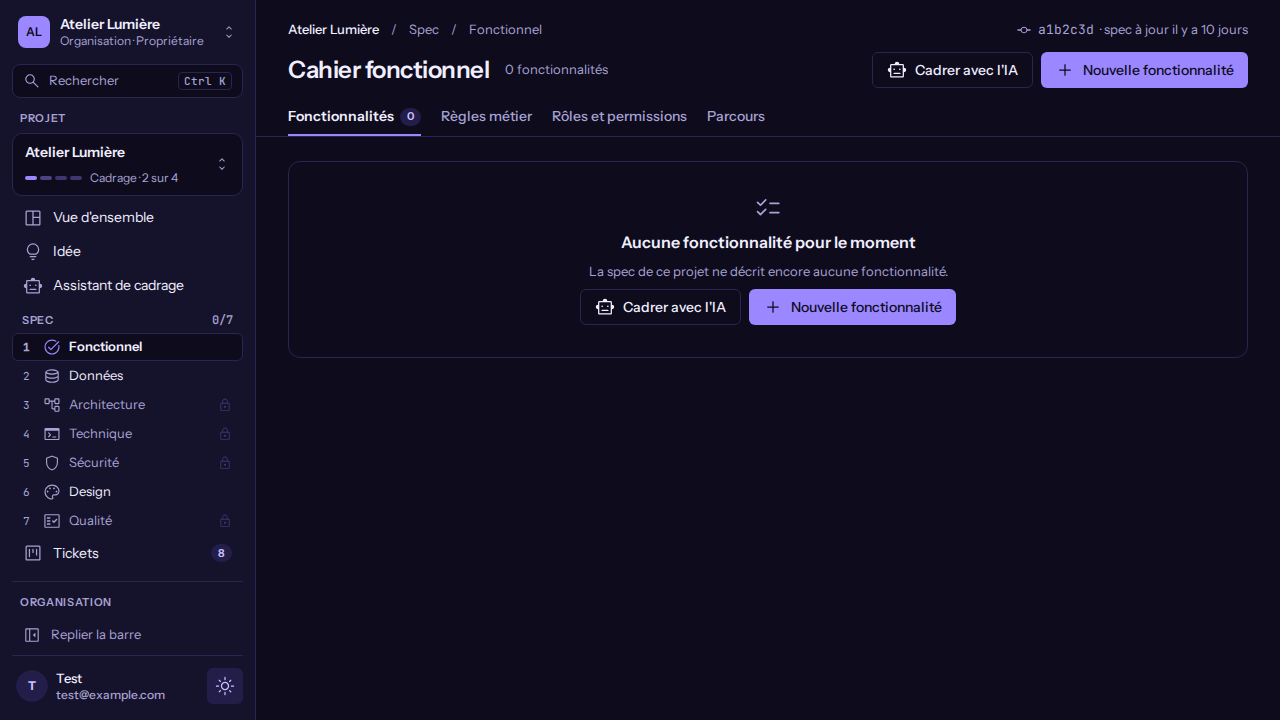
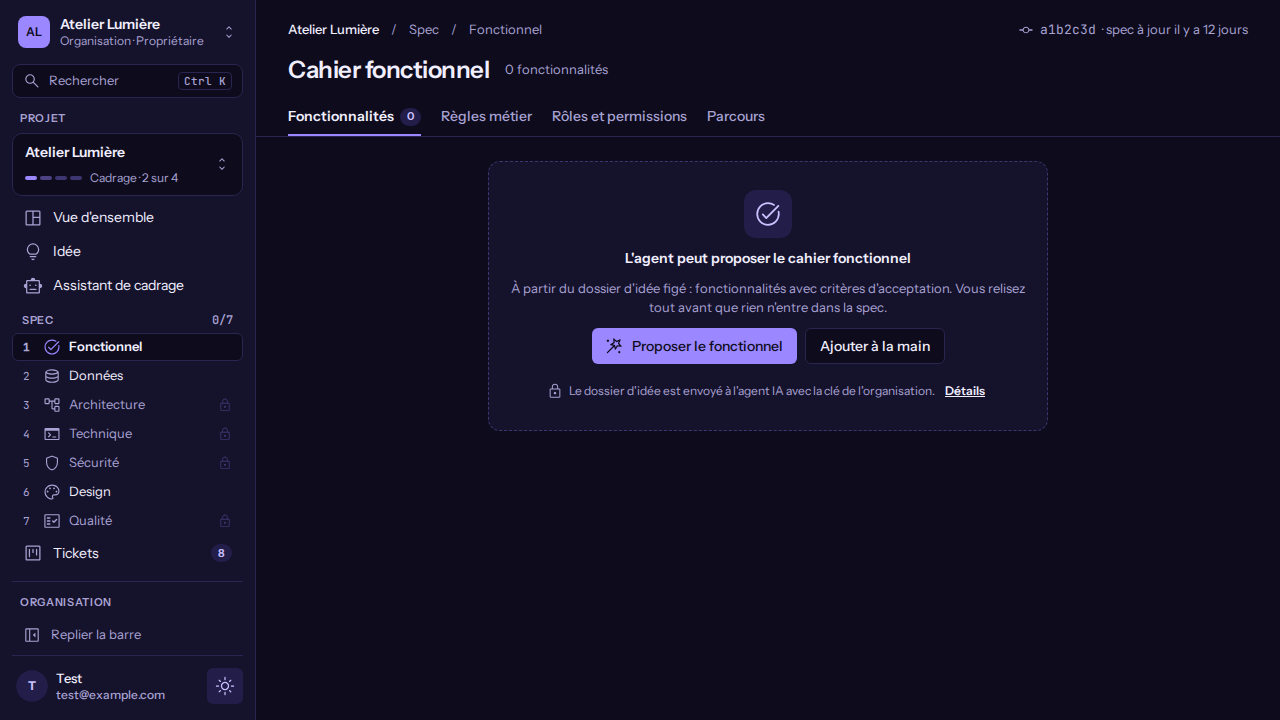
docs: captures, fiches d'écran, décisions B319 à B324 et passation (TK-99b)

Changed region(s): [[0.4062, 0.2444, 0.8125, 0.55], [0.6875, 0.0306, 1.0, 0.1222]]

diff --git a/docs/refonte/questions.md b/docs/refonte/questions.md
@@ -442,3 +442,9 @@ Décidée en autonomie le 2026-11-07 : un `Table framed` pose `tabIndex=0` sur s
 | B316 | Lectures prudentes du lot B de TK-99a (génération dans le worker) | TK-99a lot B, B314, fiche | Décidée en autonomie le 2026-11-11 : (a) un lancement `running` à la prise du job (reprise) est passé `failed` / `worker_lost` sans appel au modèle (la reprise ne rejoue pas une génération qui a pu publier) ; (b) un échec du moteur ou du fournisseur passe le lancement `failed` avec un code typé et ne relance pas le job (relancer = nouvelle demande de l'utilisateur, le verrou est libéré) ; seules les pannes de base remontent à pg-boss ; (c) une zone dont la sortie est inexploitable ou dont le prompt est refusé (collision de délimiteur) est ignorée et comptée une fois dans `discardedCount` ; une liste de zones inexploitable fait échouer le lancement (`output_invalid`) ; (d) chaque entrée du modèle est `{ kind, rationale, content }` : le contenu passe le schéma de son type, le motif (500 caractères) la politique de texte brut ; au plus 25 par zone et 500 par lancement, l'excédent est écarté et compté ; (e) types générés par mode : `complete` et `update` = `feature`, `criteria` = `criteria` (fonctionnalités sans critère seulement, une proposition chacune, titre `F-nnn · Titre`), `all` = les deux ; `rule`, `role`, `flow` jamais générés (B314 d) ; en mode `update`, seules les pages dont la version a changé depuis le `baseVersion` du dernier lancement terminé sont envoyées (toutes si aucun lancement précédent) ; (f) sources : version figée = `baseVersion` du lancement (sinon la dernière commitée), synthèse seulement si publiée (`source` renseignée), page `hypotheses-risques` lue comme source `idea.risks` et exclue des pages générales, cahier = tête `cadrage` puis branche par défaut, 300 fonctionnalités au plus ; chaque source est tronquée (6 000 caractères par page, 24 000 pour les pages, 8 000 la synthèse, 6 000 les risques, 12 000 le cahier) pour rester sous le budget de prompt de 60 000 ; (g) l'utilisateur est « parti » si `now - lastSeenAt` > 30 s ; sans lecture, la mesure part du début du traitement ; la notification est créée AVANT le passage à `done` (au mieux : un membre retiré ou un doublon n'échoue pas le lancement) ; (h) durée maximale de 14 minutes par lancement (`timeout`), sous l'expiration pg-boss de 900 s ; (i) le worker ne marque pas la dernière utilisation d'une clé et n'invalide pas sur un 401 (vie des clés = API), ses événements de moteur sont journalisés sans contenu ; (j) extraction : l'API garde ses noms (`PrismaAiRoutingStore`, `PrismaAiUsageMeter`, `PrismaAiCredentialSource`, `LlmCredentialResolver`) en enveloppes ou ré-exports des paquets `@koklo/llm` et `@koklo/db` ; `jsonSchemaOf` passe dans `@koklo/schema` (le worker n'a pas Zod) ; `PROPOSAL_BUDGETS` couvre aussi `proposal-revise` ; (k) ADR 0021. |
 | B317 | Documentation de TK-99a et risques résiduels de la revue | TK-99a, revue du tour 1, fiche §7 | Décidée en autonomie le 2026-11-11 : (a) la documentation exigée (architecture.md, passation.md, ecarts.md) est écrite avec le ticket, pas renvoyée à `/document` ; (b) le moteur réel du worker n'a pas de test de bout en bout (compilation + `ai-persistence`), consigné en passation ; (c) la course étroite de `proposal.decide` (lecture puis écriture sans verrou de ligne) est acceptée : au pire une décision écrite sur une proposition qui vient d'être appliquée, sans fuite ni écriture dans la spec ; (d) la proposition verrouillée par `appliedBatchId` après échec du lot reste à traiter avec TK-99b (B315 h). |
 | B318 | PR de dépendances ouvertes | Dependabot #115-#122, #162 | Décidée en autonomie le 2026-11-11 : Node 26 (#115-#117) refusé, la stack fixe Node 24 LTS (vision §16.1), un changement de version majeure passera par un ADR ; les bêtas oRPC montent ensemble (groupe Dependabot) ; #162 et oRPC beta.48 réunis dans une seule PR avec le correctif Biome. |
+| B319 | Lectures prudentes de TK-99b (interface des propositions) | TK-99b, B313, B314, passations 14 / 07 §1.4, maquettes 21, 10, 12 | Décidée en autonomie le 2026-11-11 : (a) l'icône `auto_awesome` des planches est `wand_stars` (DESIGN §4) ; (b) la note de confidentialité de la maquette 10 nomme un fournisseur : elle dit « l'agent IA avec la clé de l'organisation » (DESIGN §1.1 règle 6) ; (c) la maquette 10 montre le bouton en contour dans l'état Liste, la maquette 21 et la passation 14 le veulent `--primary` partout : on suit 21 (principe), et « Nouvelle fonctionnalité » passe en `outline` pour garder un seul bouton primaire ; (d) `FramingLink` quitte l'en-tête du Fonctionnel, la route `/framing` et son code restent (nettoyage = ticket ultérieur) ; (e) la relecture est la vue `?view=review` de l'onglet Fonctionnalités, ouverte automatiquement une fois quand un lancement a des propositions à relire au chargement ; (f) le serveur n'expose pas de flux : la relecture sonde `proposal.list` toutes les 2 s tant que le lancement est actif ; (g) à 30 propositions ou moins, pas de « Accepter les N restantes » (groupe unique `all`, refusé par `decideMany`) ; (h) au-delà de 200 acceptées : un commit par groupe, récapitulatif unique ; (i) bouton absent hors `canWriteSpec`, droits revérifiés par le serveur ; (j) aucune dépendance nouvelle : `VirtualList` (TK-94). B318 reste réservée. |
+| B320 | Proposition liée à un lot de spec échoué (B315 h, B317 d) côté écran | TK-99b, B315 h, `prisma-spec-batch.repository.ts` | Décidée en autonomie le 2026-11-11 : `appliedBatchId` est posé à la soumission et aucune procédure ne le libère ; sans toucher au serveur, l'écran affiche une proposition dont le lot est `failed` comme « Enregistrement échoué · à reprendre par l'équipe technique », ne la compte pas parmi les « à relire » et n'offre aucune action. La libération au retour du worker de spec reste un ticket serveur, consignée en passation. |
+| B321 | Lectures prudentes du lot A de TK-99b (`packages/ui`, galerie) | TK-99b, maquettes 21, 10, 12, DESIGN §5.13 | Décidée en autonomie le 2026-11-11 : (a) la galerie a déjà une section 14 (« Vue d'ensemble ») et une 15 (« Projets ») : la section des propositions est la 16, id `dev-ui-proposals`, sans renuméroter les autres ; (b) l'état `unavailable` du bouton ouvre au clic une bulle `Popover` (raison + lien « Ouvrir les réglages », focus clavier atteignable) au lieu d'une infobulle de survol, qu'un lien ne peut pas rendre accessible au clavier ; la raison est aussi reliée par `aria-describedby` ; (c) `IconTile` gagne la taille 34 (maquette 21 l.57), `RadioCard` les props `tags` et `density="compact"`, `ProgressBar` la variante `split` ; (d) une proposition rejetée garde un titre en `--muted-foreground` au lieu de l'opacité .6 de la maquette 10 (contraste axe) ; (e) élément de liste de 52 px de haut minimum (lignes `VirtualList` à 52) au lieu des 56 px de la maquette 10 ; (f) la relecture reçoit `groups` du parent (le serveur reste la source des comptes) et le détail en enfant (`ProposalDetail`) : le composant ne connaît pas le type de proposition ; les critères d'acceptation (`ProposalCriterion`) et lignes à icône (`ProposalDetailLines`) vivent dans `packages/ui` pour qu'aucun style de maquette ne soit recopié dans `apps/web`. |
+| B322 | Lectures prudentes du lot B de TK-99b (branchement `apps/web`) | TK-99b, B319, B320, B321, fiche §3 | Décidée en autonomie le 2026-11-11 : (a) « Afficher 20 de plus » relit le groupe avec une limite plus grande (8 puis 28, 48…) au lieu d'un curseur : un groupe compte 25 propositions au plus (B316 d) et la relecture reste cohérente quand des propositions décidées quittent le filtre « À relire » ; (b) le bouton « Enregistrer A dans la spec » compte les acceptées non appliquées (`appliedBatchId` nul) lues par `proposal.list` en pages de 100 (clé de requête liée au compte d'acceptées) ; (c) clé d'idempotence `proposal-<lancement>-<groupe sans accents>-<rang>-<empreinte des identifiants>` : stable pour le même lot rejoué, nouvelle dès que son contenu change ; (d) un lot refusé ou trop lent (60 s) arrête la suite : « N enregistrées, M à reprendre » ; (e) le lancement mène à la relecture (`?view=review`) où le bandeau d'attente et « Annuler l'attente » (quitte la vue, ne touche pas au lancement) s'affichent ; (f) un 409 `PROPOSAL_IN_PROGRESS` garde le bouton « en cours » jusqu'à ce que la lecture ait vu le lancement actif puis terminé ; (g) équipe qui écrit sur spec vide : carte « L'agent peut proposer le cahier fonctionnel » (bouton de l'agent + « Ajouter à la main »), client et business gardent l'ancienne carte ; (h) `FramingLink`, `framing-*` et `use-framing-*` restent (nettoyage ultérieur) ; `use-ai-call.ts`, `ai-error-notice.tsx` et les éditeurs `proposal-*` sont repris tels quels (aucun besoin de changement) ; (i) les tests du lot ont été écrits après le code (volume du lot) : le rouge est établi par les 12 tests existants de l'en-tête et de l'état vide qui contredisaient le nouveau comportement et ont été réécrits. |
+| B323 | Écarts de la revue de TK-99b (tour 1) avec les maquettes 21, 10 et 12 | TK-99b, revue CHANGES, B156, B319, B321, B322 | Décidée en autonomie le 2026-11-11 : (a) corrigés : tuile 34 à gauche du titre (rangée, plus d'emboîtement dans `DialogHeader`), titre 15/600 (`text-card-title`), carte radio choisie à 1 px (anneau retiré), marque à `mt-px`, compteur « N / 500 » retiré (la limite reste portée par `maxLength`), bandeau de génération en bande pleine largeur (`ProposalGenerationBanner`, nouveau dans `packages/ui`) avec `ProposalSkeleton`, relecture sans carte en retrait (bandes pleine largeur sous les onglets), en-tête de groupe sans chevauchement (le libellé passe à la ligne, le bouton « Accepter les N restantes » descend sous lui si la place manque), chevron `muted`, filtres « À relire · N » / « Toutes · N », note « Groupé par type puis par zone » (maquette 12 l.131, car les groupes sont type puis zone), note de confidentialité dans la carte vide avec « Détails » (prop `note` et `wideDescription` d'`EmptyState`, plus de style local) ; (b) le texte de « Détails » et l'exemple du champ de consigne ne figurent pas dans la maquette : lecture prudente, une phrase qui reprend ce que l'agent lit et « Rien n'est enregistré sans votre relecture » / « ex. « Se concentrer sur la réservation, laisser de côté la facturation. » » ; (c) voile .38 au lieu de .34, fond `--raised` au lieu de `--bg`, ombre absente en sombre : on garde les jetons de la bibliothèque (B156 couvre tous les dialogues ; changer le voile ou le fond d'un dialogue touche toute l'application), écart consigné ; (d) tailles de détail gardées sur le `Button` de la bibliothèque (icône 20 ou 16, Fermer 32, critère en `p-3`) : l'écart de 2 px ne justifie pas une variante, la cible de 32 reste au-dessus du minimum WCAG 2.2 (24) ; seuls l'espacement de « Lancer » (pl 10, gap 6), « Annuler » (px 12) et la position de Fermer (centré sur la rangée) sont alignés ; (e) test de performance instable sous charge (`proposals.spec.ts:145`) : réussi seul, deux axe sur la relecture en volume ont dépassé 30 s sous charge et réussi à la relance, à surveiller sans changer le seuil. |
+| B324 | Écarts restants de la revue visuelle de TK-99b (tour 2) | TK-99b, maquette 10 l.99, l.108, l.640 | Décidée en autonomie le 2026-11-11 : (a) état Prêt, spec vide : l'en-tête n'a plus aucune action et la carte de l'agent porte « Proposer le fonctionnel » (prop `idleLabel` d'`AgentProposeButton`) et « Ajouter à la main » ; un seul bouton primaire (B319 c). (b) Bandeau de génération : « à partir du dossier d'idée » sans le nombre de pages, que `ai.proposeOptions` ne renvoie pas ; l'ajouter serait un changement de contrat, à faire avec le lot qui exposera les pages lues. |

diff --git a/design/screens/S-features.md b/design/screens/S-features.md
@@ -1,7 +1,7 @@
 ---
 id: S-features
 titre: Fonctionnalités d'un projet (lecture seule)
-version: 1.8
+version: 2.0
 ---
 ## 1. Utilisateurs et objectif
 - **Vue équipe** (propriétaire, administrateur, développeur, designer) : relit les fonctionnalités de la spec d'un projet, leurs critères d'acceptation et leurs liens (tables, endpoints, écrans). Voit la version de la spec lue (court identifiant de commit) et le chemin du fichier.
@@ -193,6 +193,14 @@ Gabarit de S-projects §6 (barre latérale 248 px repliable, marge 32 px ; sous 
 - 48c, non bloquants 2 et 3 (marqueur de reprise absent après `UNAUTHORIZED` à l'étape 2 ; compte sélectionné disparu : « Projet créé. » sans dépôt ni reprise) : **résolus pour l'utilisateur** par 4.6, car un projet sans dépôt est toujours repris depuis sa page. Le code du panneau reste à corriger si on y touche (voir §11).
 - 48c, non bloquant 4 (texte d'erreur générique visible brièvement pendant la redirection `UNAUTHORIZED`) : à corriger dans le panneau réutilisé (ne rien afficher tant que la redirection est en cours).
 
+## 9a. Propositions de l'agent (TK-99b, maquettes 21, 10 et 12 ; passations 14, 06 §4.2-4.3, 07 §1.4)
+- **Bouton `AgentProposeButton`** : premier des actions de l'en-tête de l'équipe qui écrit (`canWriteSpec`), absent en vue client et business ; 5 états `idle`, `open`, `running` (« L'agent propose… »), `ready` (« Relire N propositions »), `unavailable` (raison en infobulle + lien vers les réglages). « Nouvelle fonctionnalité » passe en `outline` ; « Cadrer avec l'IA » quitte l'en-tête (la route `/framing` reste jusqu'au nettoyage).
+- **Modale `AgentProposePopover`** : choix et comptes lus de `ai.proposeOptions` (option à 0 masquée, première = Recommandé), consigne facultative (500 car.), « L'agent lit » = `reads`, pied « Rien n'est enregistré sans votre relecture. », Annuler · Lancer. Échap, clic dehors, focus piégé et rendu au bouton.
+- **États du corps** : prêt (carte pointillée), génération (bandeau `role="status"` + squelettes, premières propositions avant la fin, « Annuler l'attente » quitte l'attente seulement), relecture (`?view=review`, bandeau + progression, liste 330 px, détail, J / K / A / R hors champ de saisie, « Remettre à relire », « Demander une modification à l'agent »), relecture en volume (> 30 : groupes collants, 8 puis 20 de plus, filtre « À relire » par défaut, « Accepter les N restantes » par groupe, liste virtualisée), tout relu, erreur de liste, erreur de lancement, lot échoué (« Enregistrement échoué · à reprendre par l'équipe technique », B320).
+- **Retour sur la page** après un départ : le bouton est `ready` et l'écran s'ouvre une fois en relecture.
+- **Enregistrement** : « Enregistrer N dans la spec », un `specBatch.submit` jusqu'à 200 opérations, sinon un commit par groupe et un récapitulatif unique. Texte des propositions brut, jamais de lien.
+- **375 px** : modale `calc(100% - 32px)` défilante ; liste puis détail en colonne ; cibles 44 px. **Annonces** : arrivées par lots, décisions, changement de groupe, enregistrement, dans une seule région `role="status"` par vue.
+
 ## 10. Historique
 | Version | Date | Ticket | Changement et raison |
 |---|---|---|---|
@@ -240,3 +248,4 @@ Dossier `design/screens/captures/S-features/` (32 images) : `loading`, `data`, `
 
 L'axe des e2e est exécuté avec les étiquettes WCAG (`wcag2a`, `wcag2aa`, `wcag21aa`), comme les autres écrans ; les règles « best-practice » (landmarks de la barre latérale, `label-content-name-mismatch` du menu utilisateur) relèvent du gabarit sidebar-07 et non de cet écran.
 | 1.9 | 2026-11-08 | TK-141 | Reprise sur les bases (planches 10 et 12) : lignes en `ListRow` (`IdTag`, sous-titre « N critères », priorité avant le statut), recherche sans résultat en `EmptyState inline` avec « 0 résultat pour « … » ». Détail : `.workflow/TK-141/00-fiche.md` |
+| 2.0 | 2026-11-11 | TK-99b | Propositions de l'agent sur le Fonctionnel : bouton (5 états), modale, relecture et relecture en volume (§9a), décisions lues et écrites côté serveur. Le bouton suit la maquette 21 (`--primary`) plutôt que le contour de la maquette 10 (B319). Détail : `.workflow/TK-99b/00-fiche.md` |

diff --git a/docs/refonte/passation.md b/docs/refonte/passation.md
@@ -21,6 +21,7 @@ last_reviewed: 2026-11-10
 | 021 | TK-92 (vue d'ensemble : `project.overview`, S-overview) | ✅ fusionné (PR #160, `0b4ea76`) |
 | 021 | TK-93 (projets en cartes, création en une étape) | 🟡 lots A (serveur), B (liste) et C (création) livrés dans l'espace principal, en revue ; décisions B297 à B311 ; à compléter dans le sprint : critère 1 de TK-98 (moteur + création livrés, réglage après création au lot 13c) |
 | 022 | TK-99a (serveur des propositions : tables, verrou en base, tâche `agent-propose`, `ai.*` / `proposal.*`, contrat 2.9.0) | 🟡 livré dans l'espace principal sur `feat/tk-99a-propositions-serveur`, revue en cours (tour de correction 1 : documentation) ; décisions B313 à B316 ; ADR 0021 ; TK-99b (écrans) à suivre |
+| 022 | TK-99b (interface des propositions : `AgentProposeButton`, modale, relecture à plat et en volume, enregistrement par lots) | 🟡 lot B livré dans l'espace principal sur `feat/tk-99b-propositions-interface` (branchement `apps/web`, e2e `proposals`, captures `S-features/proposals-*`), revue à faire ; décisions B319 à B322 ; suivi serveur : libération d'une proposition verrouillée par un lot échoué (B320) | TK-99a |
 
 Interdit pour l'instant : le lot 12 (`23-Lot12Tickets`). Questions ouvertes pour l'utilisateur : A1, B16 (`questions.md`).
 
@@ -107,3 +108,4 @@ Interdit pour l'instant : le lot 12 (`23-Lot12Tickets`). Questions ouvertes pour
 - Création de projet (TK-93 lot C) : l'état de la création vient du serveur (`project.cards` → `creation`, `project.creationStatus`) ; ne jamais réintroduire de marqueur `sessionStorage` ni d'appel à `repo.createSpec` pour un nouveau projet (seule la page Fonctionnalités d'un projet sans dépôt le garde). Une création `skipped` (`no_account`) garde sa carte tant que le dépôt n'existe pas (B311). Les e2e de la création pilotent le faux API par `creation`, `creationSeed`, `retryTo` (`apps/web/e2e/support/stub-spec-repo.ts`).
 - TK-93 : le workflow a duré ~3 h 20 (3 lots) et la CI `ci` ~60 min sous charge. Non vérifié : `KOKLO_ENCRYPTION_KEY` injecté au service worker par `.deploy/manifest.yaml` (secret `generate` global supposé) ; à contrôler au premier déploiement staging. Après un rebase, relancer lint, typecheck et la suite web avant le push forcé.
 - TK-99a : non vérifié, `KOKLO_ENCRYPTION_KEY` et les clés d'IA injectés au service worker par `.deploy/manifest.yaml` (le worker déchiffre les clés BYOK comme l'API) ; à contrôler au premier déploiement staging. Le moteur réel du worker (`createAiEngine`) n'est couvert que par la compilation et `ai-persistence` côté API, pas par un lancement de bout en bout. Une proposition dont le lot de spec a échoué reste verrouillée par `appliedBatchId` (B315 h), à traiter avec TK-99b. `proposal.decide` lit puis écrit sans verrou de ligne : course étroite avec `specBatch.submit`, sans fuite ni écriture dans la spec.
+- e2e `proposals.spec.ts` « 400 propositions… défilement sans tâche longue » : sensible à la charge de la machine (échoue dans la suite complète, passe seul 2/2) ; le relancer seul avant de conclure (TK-99b).

diff --git a/design/screens/S-dev-ui.md b/design/screens/S-dev-ui.md
@@ -1,7 +1,7 @@
 ---
 id: S-dev-ui
 titre: Galerie des composants (/dev/ui, équipe, hors production)
-version: 1.4
+version: 1.5
 ---
 ## 1. Utilisateurs et objectif
 L'équipe Koklo (développeurs, designer, agents de développement et de revue) et les tests de captures. Ce n'est pas un écran du produit : aucun client ni rôle d'organisation n'y a affaire. Arrivée : adresse saisie `/dev/ui`, ou les tests `apps/web/e2e/dev-ui.spec.ts`.
@@ -119,6 +119,7 @@ Les boutons d'action des exemples (« Annuler », « Réessayer », « Commencer
 | 1.2 | 2026-11-07 | TK-138 | Section « Primitives de base » en trois groupes A, B, C (jetons, `Icon`, `Button` et famille, `Pill` et famille, `Avatar`, `IconTile`, chips, `SegmentedControl`, `Switch`, `Checkbox`, `RadioGroup`, champs). Actif segmenté neutre sans violet (I5). Détail : `.workflow/TK-138/00-fiche.md` |
 | 1.3 | 2026-11-07 | TK-139 | Sections « Surfaces et retours » A, B, C : `Card`, `StatCard`, `ProgressBar`, `InlineAlert`, `EmptyState`, `Skeleton`, `Toast`, `Dialog`, `AlertDialog`, `Sheet`, `Tabs`, `Table`. Superpositions ouvertes par bouton. Détail : `.workflow/TK-139/00-fiche.md` |
 | 1.4 | 2026-11-07 | TK-140 | Sections « Listes · A » (mise à jour), « Listes · B » et « Navigation · C » : `Pagination`, `VirtualList`, `CountBar`, `ListFooter`, `GroupSection`, `ListPanel`, `ListRow`, `ProjectHeader`, `PageHeader`, `PhaseRail inline`, `ShellNavGroup`, `ShellNavItem count`, `SecondaryNav`. Détail : `.workflow/TK-140/00-fiche.md` |
+| 1.5 | 2026-11-11 | TK-99b | Section « 14. Propositions de l'agent » (id `dev-ui-proposals`) : `AgentProposeButton` (5 états), `AgentProposePopover`, `ProposalReview` (plate et en volume), en clair, en sombre et à 375 px. Détail : `.workflow/TK-99b/00-fiche.md` |
 
 ## 11. Captures (générées par `apps/web/e2e/dev-ui.spec.ts`)
 Dossier `design/screens/captures/S-dev-ui/` : `full-light.png`, `full-dark.png` (pleine page, 1280 px), `full-light-mobile.png`, `full-dark-mobile.png` (375 px), `hovercard-light.png`, `hovercard-dark.png`, `details-open-light.png`, `details-open-dark.png`. TK-94 : `lists-light.png`, `lists-dark.png`, `lists-light-mobile.png`, `lists-dark-mobile.png` (section « Listes longues »).

diff --git a/design/README.md b/design/README.md
@@ -55,11 +55,11 @@ Ce qui mériterait un avis humain. Ça ne bloque rien : l'option la plus conform
 | [S-accept-invitation](screens/S-accept-invitation.md) | 1 | TK-86 |
 | [S-kanban](screens/S-kanban.md) | 1.6 | TK-88 |
 | [S-github](screens/S-github.md) | 4.1 | TK-88 |
-| [S-features](screens/S-features.md) | 1.7 | TK-88 |
+| [S-features](screens/S-features.md) | 2.0 | TK-99b |
 | [S-framing](screens/S-framing.md) | 2.4 | TK-88 |
 | [S-ai-settings](screens/S-ai-settings.md) | 1.2 | TK-88 |
 | [S-idea](screens/S-idea.md) | 1 | TK-89 |
 | [S-feature-form](screens/S-feature-form.md) | 1.3 | TK-48 (48e) |
-| [S-dev-ui](screens/S-dev-ui.md) | 1.2 | TK-138 |
+| [S-dev-ui](screens/S-dev-ui.md) | 1.5 | TK-99b |
 | [S-app-shell](screens/S-app-shell.md) | 2 | TK-88 |
 | [S-overview](screens/S-overview.md) | 1 | TK-92 |
